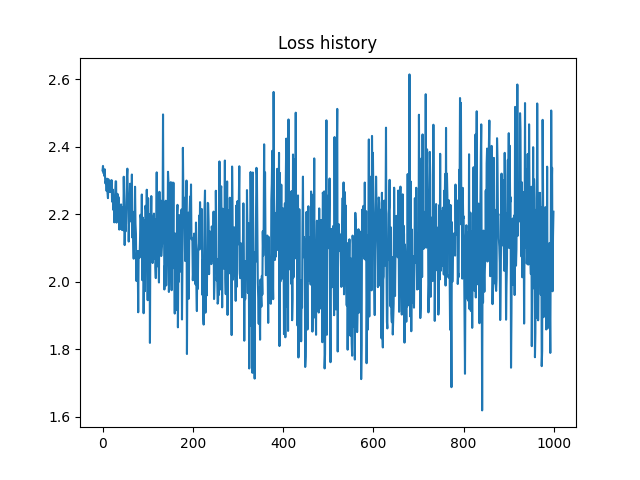
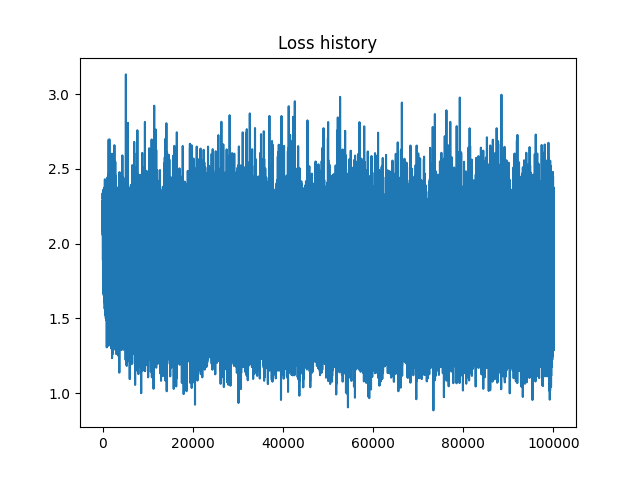
2 seminar done (update)

diff --git a/src/seminar3.py b/src/seminar3.py
@@ -1,5 +1,8 @@
 """Seminar 3. Multilayer neural net"""
 import numpy as np
+from src.test_utils import get_preprocessed_data, visualize_weights, visualize_loss
+import datetime
+import os.path
 
 
 class Param:
@@ -54,7 +57,9 @@ class ReLULayer:
         :param X: input data
         :return: Rectified Linear Unit
         """
-        raise Exception("Not implemented!")
+        self.mask = X > 0
+        return X * self.mask
+
 
     def backward(self, d_out: np.array) -> np.array:
         """
@@ -66,7 +71,7 @@ class ReLULayer:
           with respect to input
         """
         # TODO: Implement backward pass
-        raise Exception("Not implemented!")
+        return self.mask * d_out
 
     def params(self) -> dict:
         # ReLU Doesn't have any parameters
@@ -82,7 +87,9 @@ class DenseLayer:
     def forward(self, X):
         # TODO: Implement forward pass
         # Your implementation shouldn't have any loops
-        raise Exception("Not implemented!")
+        self.X = X
+        return X @ self.W.value + self.B.value
+
 
     def backward(self, d_out):
         """
@@ -106,7 +113,10 @@ class DenseLayer:
         # raise Exception("Not implemented!")
         # print('d_out shape is ', d_out.shape)
         # print('self.W shape is ', self.W.value.shape)
-        raise Exception("Not implemented!")
+        d_result = d_out @ self.W.value.T
+        self.W.grad = self.X.T @ d_out
+        self.B.grad = d_out.sum(axis=0, keepdims=True)
+        return d_result
 
     def params(self):
         return {'W': self.W, 'B': self.B}
@@ -146,8 +156,9 @@ class TwoLayerNet:
         # Set layer parameters gradient to zeros
         # After that compute loss and gradients
         for layer in self.layers:
+            Z = layer.forward(Z)
             for param in layer.params().values():
-                pass
+                param.grad = np.zeros_like(param.grad)
 
         self.loss, self.d_out = softmax_with_cross_entropy(Z, y)
         return Z
@@ -161,8 +172,9 @@ class TwoLayerNet:
         for layer in reversed(self.layers):
             tmp_d_out = layer.backward(tmp_d_out)
             for param in layer.params().values():
-                pass
-
+                loss, grad = l2_regularization(param.value, self.reg)
+                self.loss += loss
+                param.grad += grad
     def fit(self, X, y, learning_rate=1e-3, num_iters=10000,
             batch_size=4, verbose=True):
         """
@@ -204,9 +216,57 @@ class TwoLayerNet:
         return loss_history
 
 
+def train():
+    # TODO 5: Find the best hyperparameters
+    # assert test accuracy > 0.22
+    # weights images must look like in lecture slides
+
+    # ***** START OF YOUR CODE *****
+    n_input, n_output, hidden = 3072, 10, 256
+    learning_rate = 1e-3
+    reg = 0.01
+    num_iters = 20000
+    batch_size = 64
+    # ******* END OF YOUR CODE ************
+
+    (x_train, y_train), (x_test, y_test) = get_preprocessed_data(include_bias=False)
+    cls = TwoLayerNet(hidden_layer_size=hidden, n_input=n_input, n_output=n_output, reg=reg)
+    t0 = datetime.datetime.now()
+    loss_history = cls.fit(x_train, y_train, learning_rate, num_iters, batch_size)
+    t1 = datetime.datetime.now()
+    dt = t1 - t0
+
+    report = f"""# Training Softmax classifier  
+datetime: {t1.isoformat(' ', 'seconds')}  
+Well done in: {dt.seconds} seconds  
+learning_rate = {learning_rate}  
+reg = {reg}  
+num_iters = {num_iters}  
+batch_size = {batch_size}  
+
+Final loss: {loss_history[-1]}   
+Train accuracy: {cls.evaluate(x_train, y_train)}   
+Test accuracy: {cls.evaluate(x_test, y_test)}  
+
+<img src="weights.png">  
+<br>
+<img src="loss.png">
+"""
+
+    print(report)
+
+    out_dir = '../output/seminar3'
+    report_path = os.path.join(out_dir, 'report.md')
+    with open(report_path, 'w') as f:
+        f.write(report)
+    # visualize_weights(cls, out_dir)
+    # visualize_loss(loss_history, out_dir)
+
+
+
 if __name__ == '__main__':
     """1 point"""
-    # Train your TwoLayer Net! 
+    # Train your TwoLayer Net!
     # Test accuracy must be > 0.33
     # Save report to output/seminar3
-    model = TwoLayerNet()
+    train()

diff --git a/src/seminar2.py b/src/seminar2.py
@@ -35,15 +35,15 @@ def softmax_loss_and_grad(W: np.array, X: np.array, y: np.array, reg: float) -> 
     z = X @ W
     s = softmax(z)
     loss = -np.log(s[range(N), y]).mean()
-    loss += np.sum(W ** 2)
+    loss += reg * np.sum(W ** 2)
     # 2. Backward pass, compute intermediate dL/dZ
-    dLdZ = s.copy()
+    dLdZ = s
     dLdZ[range(N), y] -= 1
     dLdZ /= N
     # 3. Compute data gradient dL/dW
     dL_dW += X.T @ dLdZ
     # 4. Compute regularization gradient
-    reg_grad = 2 * W
+    reg_grad = 2 * reg * W
     # 5. Return loss and sum of data + reg gradients
     dL_dW += reg_grad
     # *****END OF YOUR CODE*****
@@ -142,8 +142,8 @@ def train():
 
     # ***** START OF YOUR CODE *****
     learning_rate = 0.001
-    reg = 0.1
-    num_iters = 1000
+    reg = 0.01
+    num_iters = 100_000
     batch_size = 16
     # ******* END OF YOUR CODE ************
 

diff --git a/output/seminar2/report.md b/output/seminar2/report.md
@@ -1,14 +1,14 @@
 # Training Softmax classifier  
-datetime: 2023-10-27 19:31:36  
-Well done in: 0 seconds  
+datetime: 2023-10-27 21:52:19  
+Well done in: 52 seconds  
 learning_rate = 0.001  
-reg = 0.1  
-num_iters = 1000  
+reg = 0.01  
+num_iters = 100000  
 batch_size = 16  
 
-Final loss: 2.2076310492695437   
-Train accuracy: 0.36176   
-Test accuracy: 0.3592  
+Final loss: 2.0379686737638436   
+Train accuracy: 0.4326   
+Test accuracy: 0.4085  
 
 <img src="weights.png">  
 <br>
